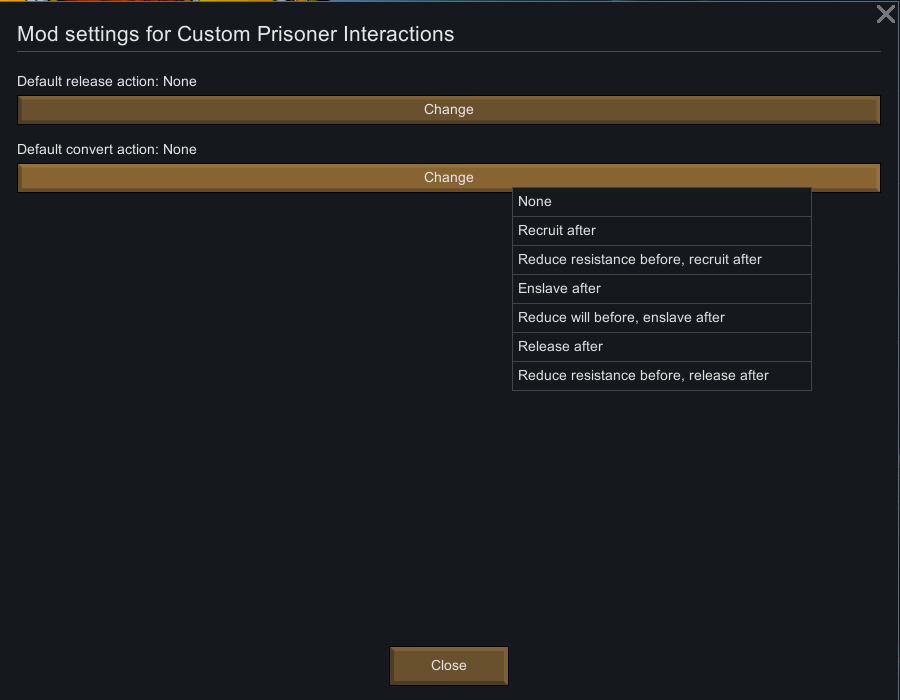
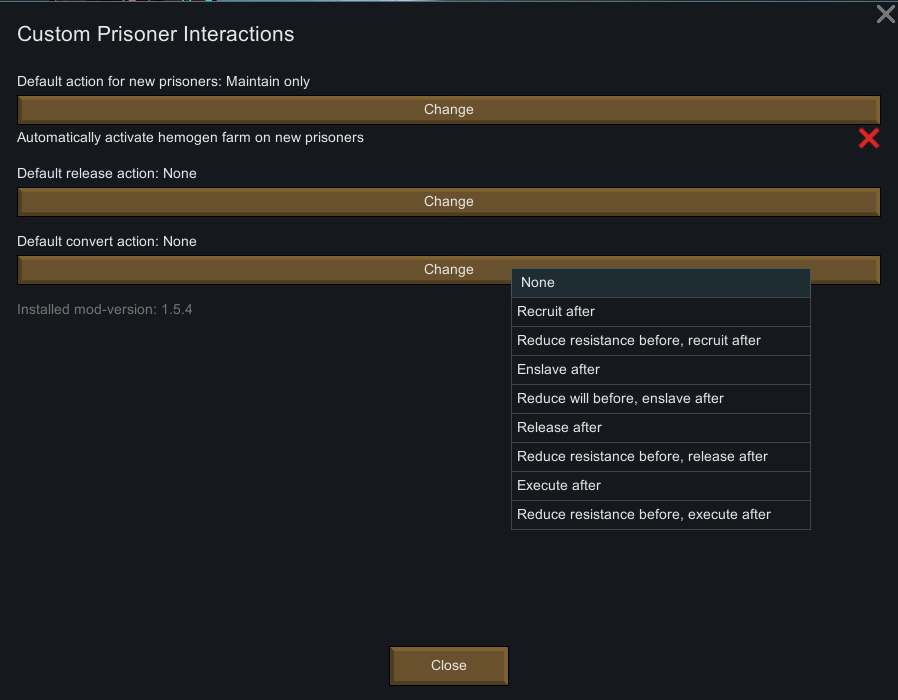
Fixed hemogen farming always triggering

diff --git a/Source/CustomPrisonerInteractions/Pawn_GuestTracker_CapturedBy.cs b/Source/CustomPrisonerInteractions/Pawn_GuestTracker_CapturedBy.cs
@@ -9,8 +9,9 @@ public static class Pawn_GuestTracker_CapturedBy
 {
     public static void Postfix(Pawn_GuestTracker __instance, ref Pawn ___pawn, Pawn byPawn)
     {
-        if (CustomPrisonerInteractionsMod.instance.Settings.AutoHemogen && ___pawn.genes == null ||
-            !___pawn.genes.HasActiveGene(GeneDefOf.Hemogenic))
+        if (CustomPrisonerInteractionsMod.instance.Settings.AutoHemogen && (___pawn.genes == null ||
+                                                                            !___pawn.genes.HasActiveGene(
+                                                                                GeneDefOf.Hemogenic)))
         {
             ___pawn.guest.ToggleNonExclusiveInteraction(PrisonerInteractionModeDefOf.HemogenFarm, true);
         }

diff --git a/README.md b/README.md
@@ -38,6 +38,8 @@ It also adds the following options for the Convert option
 
 You can use this mod without owning Ideology, as it will still show for the release-option.
 
+If Biotech is active, there is an option to automatically enable hemogen farm on new prisoners.
+
 If you have suggestions for more options, please leave a comment and Ill see if I can add them to the mod.
 
 - [Chinese translation](https://steamcommunity.com/sharedfiles/filedetails/?edit=true&id=2841412975) by Chiwei
